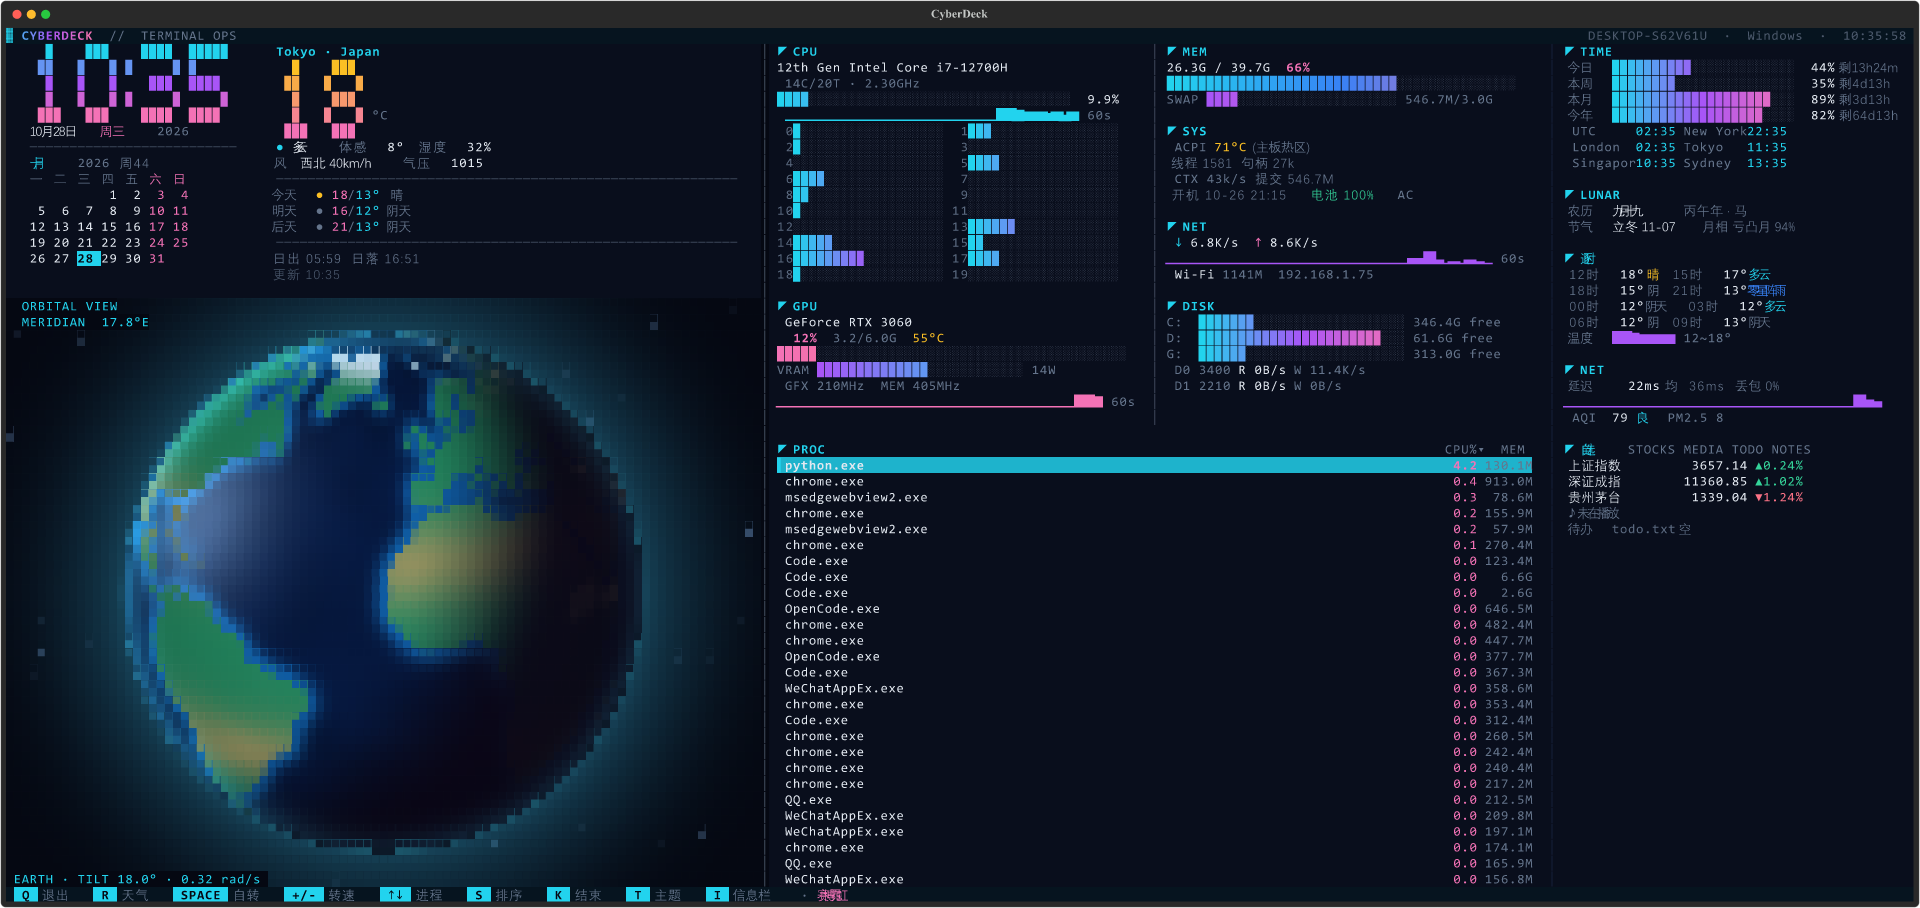
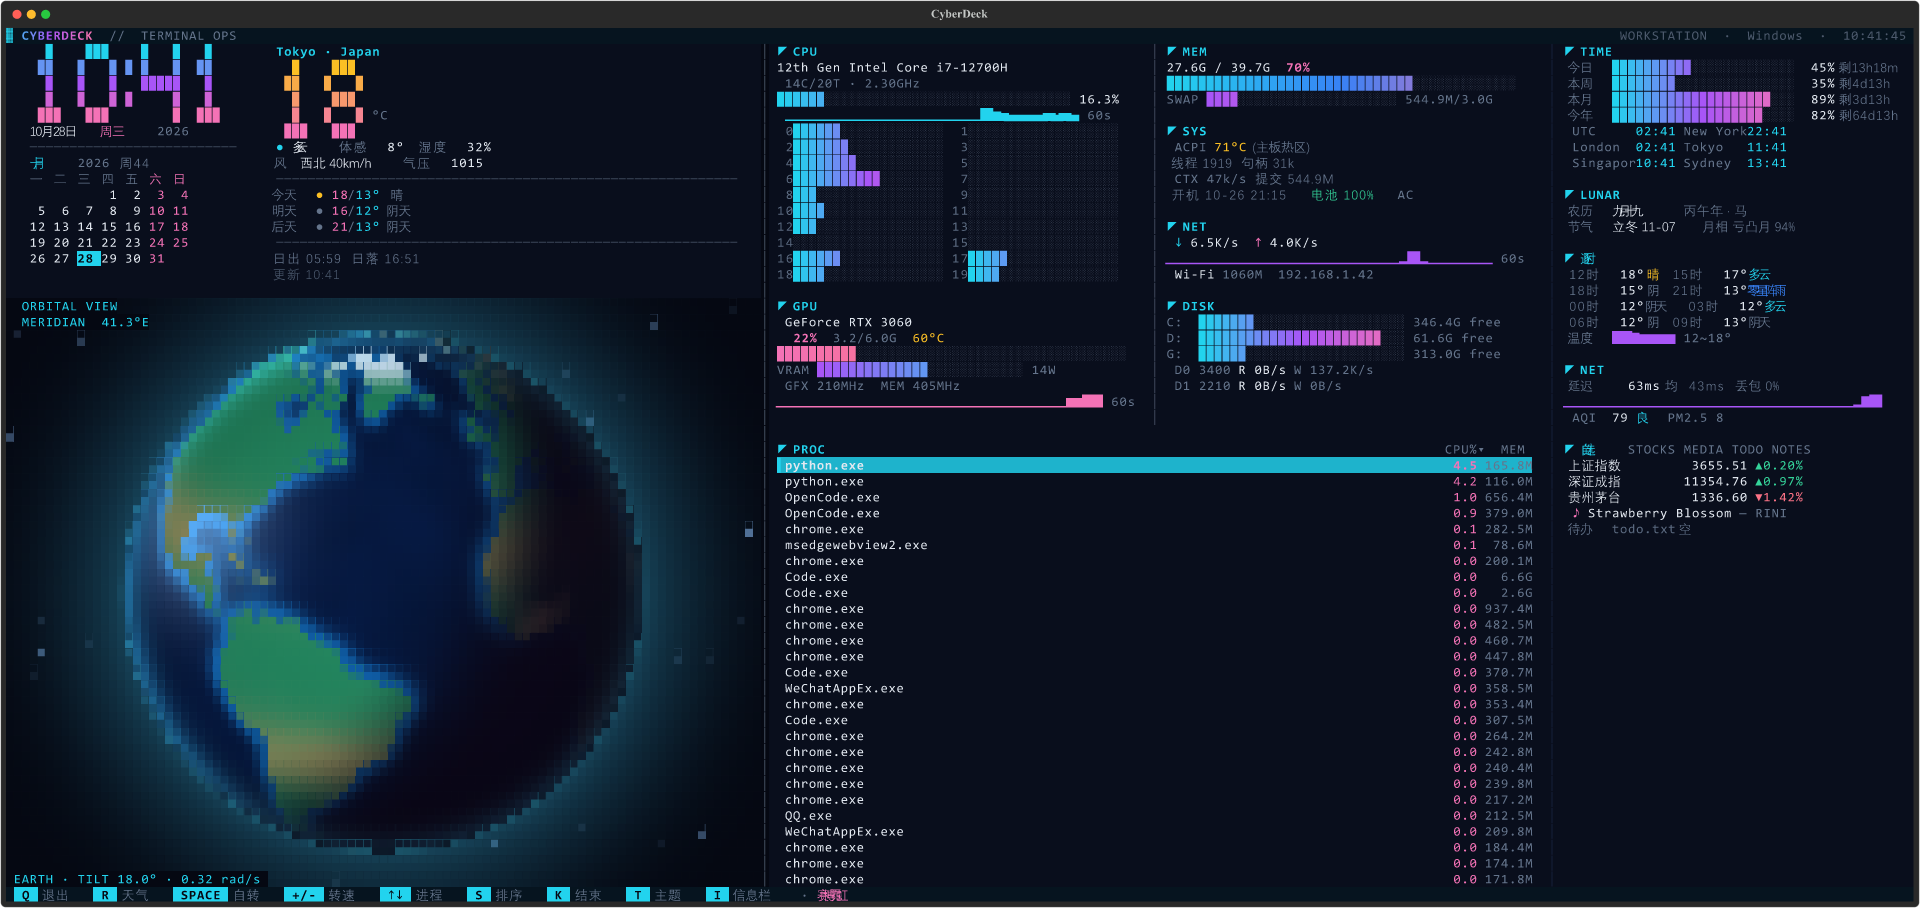
chore: redacted README screenshot, retry AQI while empty
The preview generator substitutes a fake hostname and LAN IP so screenshots
can be published. Air quality retries every 30s until the first value lands
instead of waiting ten minutes.

diff --git a/tools/make_preview.py b/tools/make_preview.py
@@ -1,0 +1,51 @@
+"""Render a clean README screenshot (fake hostname, no LAN IP)."""
+
+import asyncio
+import socket
+import sys
+from pathlib import Path
+
+ROOT = Path(__file__).resolve().parents[1]
+sys.path.insert(0, str(ROOT / "src"))
+
+# redact before the app renders anything
+socket.gethostname = lambda: "workstation"  # noqa: E731
+
+from cyberdeck import system  # noqa: E402
+
+_real_nics = system.Sampler._nics
+
+
+def _nics(self):
+    nics = _real_nics(self)
+    for nic in nics:
+        nic.ipv4 = "192.168.1.42"
+    return nics
+
+
+system.Sampler._nics = _nics
+
+from cyberdeck.app import CyberDeck  # noqa: E402
+
+OUT = ROOT / "tools"
+
+
+async def main() -> None:
+    app = CyberDeck()
+    async with app.run_test(size=(240, 55)) as pilot:
+        await pilot.pause(8.0)
+        svg = app.export_screenshot()
+        (OUT / "preview.svg").write_text(svg, encoding="utf-8")
+        print("hostname redacted:", "DESKTOP-" not in svg.upper())
+
+
+asyncio.run(main())
+
+import resvg_py  # noqa: E402
+
+svg = (OUT / "preview.svg").read_text(encoding="utf-8")
+svg = svg.replace('font-family: "Fira Code";', 'font-family: "Consolas";')
+svg = svg.replace("font-family: Fira Code, monospace;", "font-family: Consolas, monospace;")
+png = bytes(resvg_py.svg_to_bytes(svg, width=1920, monospace_family="Consolas"))
+(ROOT / "docs" / "preview.png").write_bytes(png)
+print("wrote docs/preview.png", len(png), "bytes")

diff --git a/src/cyberdeck/extras.py b/src/cyberdeck/extras.py
@@ -363,6 +363,9 @@ class InfoPanel(Widget):
         raw = _weather_raw()
         if raw:
             self._hourly = parse_hourly(raw, datetime.now(), 8)
+        if self.state.air is None and time.monotonic() - self._last_air > 30:
+            self._last_air = time.monotonic()
+            self._poll_air()
         self._load_todo()
         self.refresh()
 
@@ -445,7 +448,6 @@ class InfoPanel(Widget):
         if air:
             self.state.air = air
         self.refresh()
-
     # -- rendering -------------------------------------------------------
     def render(self) -> Text:
         w, h = self.content_size
